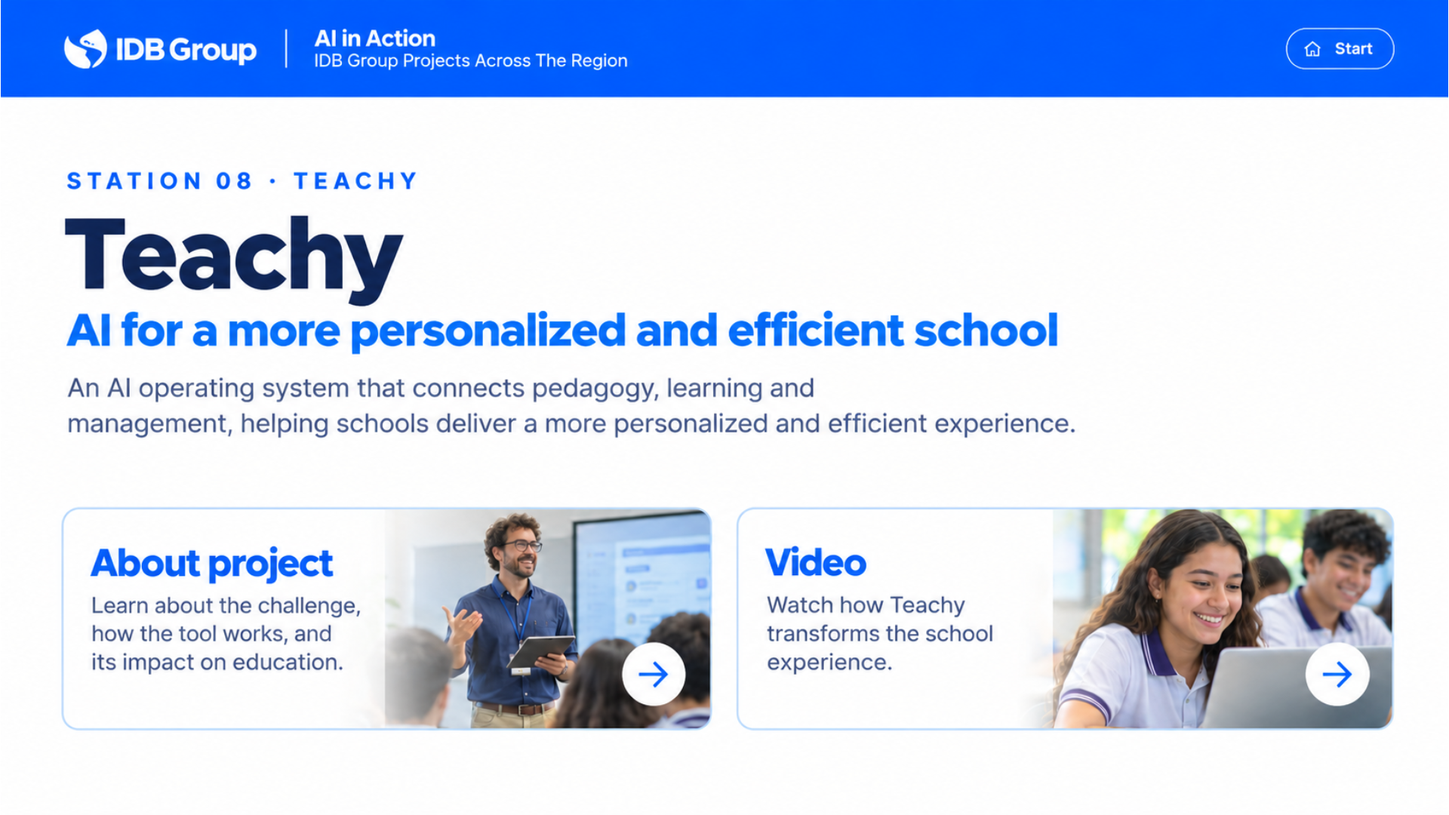
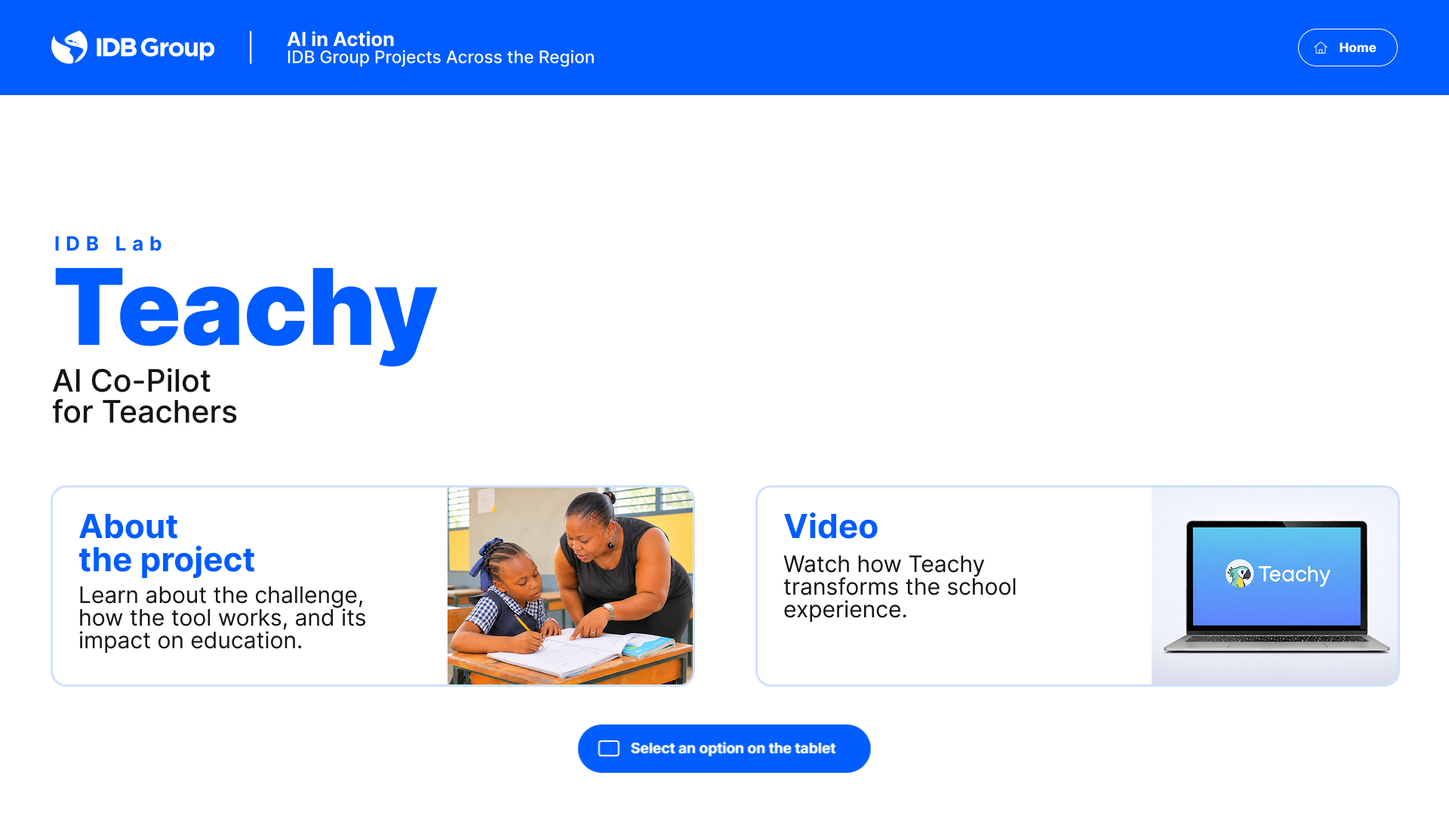
feat(08): Teachy con el nuevo menú principal y píldoras de guía en la TV
- Menú principal nuevo (MenuprincipalTEACHY.png, 1920 × 1080) en tableta y TV, con zonas
  táctiles About the project / Video / Home y píldora Back junto a Home.
- TV, menú: píldora «Select an option on the tablet» bajo las tarjetas.
- TV, infografía: píldora «When you are ready, tap “Video” on the tablet» al terminar la animación.

Changed region(s): [[0.0312, 0.5806, 0.9688, 0.9472], [0.0312, 0.2139, 0.75, 0.55], [0.0, 0.0306, 1.0, 0.1222]]

diff --git a/display.html b/display.html
@@ -1,1 +1,1 @@
-<!doctype html><html lang="en"><head><meta charset="UTF-8"><meta name="viewport" content="width=device-width, initial-scale=1"><title>AI in Action | Main Display</title><link rel="stylesheet" href="shared/styles.css?v=20261029-01"><link rel="stylesheet" href="projects/01-aquadata/aquadata.css?v=20261113-03"><link rel="stylesheet" href="projects/03-costa-rica-smart-borders/module.css?v=20261113-fig-9"><link rel="stylesheet" href="projects/04-parque-tecnologico-guatiguara/module.css?v=20261113-menu-2"><link rel="stylesheet" href="projects/05-profe-gabi/module.css?v=20261109-chat-font22"><link rel="stylesheet" href="projects/05-profe-gabi/artwork.css?v=20261113-home-label"><link rel="stylesheet" href="projects/06-reglac/module.css?v=20261113-menu-1"><link rel="stylesheet" href="projects/07-csd-maiia/module.css"><link rel="stylesheet" href="projects/08-teachy/module.css?v=20261113-portada-1"><link rel="stylesheet" href="projects/11-rsm-rise/module.css?v=20261113-rise-next-step"><link rel="stylesheet" href="projects/10-vpc-country-intelligence/module.css?v=20261106-country-intelligence"><link rel="stylesheet" href="projects/02-bogota-traffic-prediction/rebrand.css?v=20261113-menu-2"><link rel="stylesheet" href="projects/02-bogota-traffic-prediction/insights.css?v=20261113-infografia-2"><link rel="stylesheet" href="projects/02-bogota-traffic-prediction/control-center.css?v=20261113-menu-1"><link rel="stylesheet" href="projects/02-bogota-traffic-prediction/completion.css?v=20261112-figma-12"><link rel="stylesheet" href="shared/home-branding.css?v=20261110-home-art"></head><body><div id="app"></div><script src="shared/projects.js?v=20261029-01"></script><script src="shared/home-art.js?v=20261113-home-final"></script><script src="shared/brand-art.js"></script><script src="shared/brand.js?v=20261029-01"></script><script src="shared/sync.js?v=20261106-country-intelligence"></script><script src="shared/aquadata.js?v=20261112-01"></script><script src="projects/01-aquadata/visual.js?v=20261113-02"></script><script src="projects/04-parque-tecnologico-guatiguara/experience.js?v=20261113-menu-2"></script><script src="projects/05-profe-gabi/state.js?v=20261113-home-label"></script><script src="projects/05-profe-gabi/conversations.js?v=20261113-home-label"></script><script src="projects/05-profe-gabi/artwork.js?v=20261113-home-label"></script><script src="projects/05-profe-gabi/experience.js?v=20261113-home-label"></script><script src="projects/06-reglac/state.js"></script><script src="projects/06-reglac/experience.js?v=20261113-menu-1"></script><script src="projects/07-csd-maiia/state.js"></script><script src="projects/07-csd-maiia/experience.js"></script><script src="projects/07-csd-maiia/artwork.js"></script><script src="projects/08-teachy/experience.js?v=20261113-portada-1"></script><script src="projects/03-costa-rica-smart-borders/cover.js?v=20261113-fig-9"></script><script src="projects/03-costa-rica-smart-borders/tv.js?v=20261113-fig-9"></script><script src="projects/11-rsm-rise/state.js?v=20261113-rise-next-step"></script><script src="projects/11-rsm-rise/game.js?v=20261113-rise-next-step"></script><script src="projects/11-rsm-rise/experience.js?v=20261113-rise-next-step"></script><script src="projects/10-vpc-country-intelligence/state.js?v=20261106-country-intelligence"></script><script src="projects/10-vpc-country-intelligence/translations.js?v=20261106-country-intelligence"></script><script src="projects/10-vpc-country-intelligence/prototype.js?v=20261106-country-intelligence"></script><script src="projects/10-vpc-country-intelligence/experience.js?v=20261106-country-intelligence"></script><script src="shared/bogota-traffic.js?v=20261113-infografia-2"></script><script src="projects/02-bogota-traffic-prediction/visual.js?v=20261113-menu-2"></script><script src="projects/02-bogota-traffic-prediction/vendor/qrcode.js?v=1.4.4"></script><script src="projects/02-bogota-traffic-prediction/ranking.js?v=20261107-01"></script><script src="projects/02-bogota-traffic-prediction/completion.js?v=20261112-figma-12"></script><script src="projects/02-bogota-traffic-prediction/icons.js?v=20261112-figma-12"></script><script src="projects/02-bogota-traffic-prediction/pulse-vial.js?v=20261113-menu-1"></script><script src="projects/02-bogota-traffic-prediction/insights.js?v=20261113-infografia-2"></script><script src="projects/02-bogota-traffic-prediction/exploration.js?v=20261112-figma-12"></script><script src="projects/02-bogota-traffic-prediction/view-state.js?v=20261108-city-01"></script><script src="projects/02-bogota-traffic-prediction/native-map.js?v=20261110-stage-22"></script><script src="projects/02-bogota-traffic-prediction/control-center.js?v=20261113-menu-1"></script><script src="shared/display.js?v=20261113-gt-menu-1"></script></body></html>
+<!doctype html><html lang="en"><head><meta charset="UTF-8"><meta name="viewport" content="width=device-width, initial-scale=1"><title>AI in Action | Main Display</title><link rel="stylesheet" href="shared/styles.css?v=20261029-01"><link rel="stylesheet" href="projects/01-aquadata/aquadata.css?v=20261113-03"><link rel="stylesheet" href="projects/03-costa-rica-smart-borders/module.css?v=20261113-fig-9"><link rel="stylesheet" href="projects/04-parque-tecnologico-guatiguara/module.css?v=20261113-menu-2"><link rel="stylesheet" href="projects/05-profe-gabi/module.css?v=20261109-chat-font22"><link rel="stylesheet" href="projects/05-profe-gabi/artwork.css?v=20261113-home-label"><link rel="stylesheet" href="projects/06-reglac/module.css?v=20261113-menu-1"><link rel="stylesheet" href="projects/07-csd-maiia/module.css"><link rel="stylesheet" href="projects/08-teachy/module.css?v=20261113-menu-1"><link rel="stylesheet" href="projects/11-rsm-rise/module.css?v=20261113-rise-next-step"><link rel="stylesheet" href="projects/10-vpc-country-intelligence/module.css?v=20261106-country-intelligence"><link rel="stylesheet" href="projects/02-bogota-traffic-prediction/rebrand.css?v=20261113-menu-2"><link rel="stylesheet" href="projects/02-bogota-traffic-prediction/insights.css?v=20261113-infografia-2"><link rel="stylesheet" href="projects/02-bogota-traffic-prediction/control-center.css?v=20261113-menu-1"><link rel="stylesheet" href="projects/02-bogota-traffic-prediction/completion.css?v=20261112-figma-12"><link rel="stylesheet" href="shared/home-branding.css?v=20261110-home-art"></head><body><div id="app"></div><script src="shared/projects.js?v=20261029-01"></script><script src="shared/home-art.js?v=20261113-home-final"></script><script src="shared/brand-art.js"></script><script src="shared/brand.js?v=20261029-01"></script><script src="shared/sync.js?v=20261106-country-intelligence"></script><script src="shared/aquadata.js?v=20261112-01"></script><script src="projects/01-aquadata/visual.js?v=20261113-02"></script><script src="projects/04-parque-tecnologico-guatiguara/experience.js?v=20261113-menu-2"></script><script src="projects/05-profe-gabi/state.js?v=20261113-home-label"></script><script src="projects/05-profe-gabi/conversations.js?v=20261113-home-label"></script><script src="projects/05-profe-gabi/artwork.js?v=20261113-home-label"></script><script src="projects/05-profe-gabi/experience.js?v=20261113-home-label"></script><script src="projects/06-reglac/state.js"></script><script src="projects/06-reglac/experience.js?v=20261113-menu-1"></script><script src="projects/07-csd-maiia/state.js"></script><script src="projects/07-csd-maiia/experience.js"></script><script src="projects/07-csd-maiia/artwork.js"></script><script src="projects/08-teachy/experience.js?v=20261113-menu-1"></script><script src="projects/03-costa-rica-smart-borders/cover.js?v=20261113-fig-9"></script><script src="projects/03-costa-rica-smart-borders/tv.js?v=20261113-fig-9"></script><script src="projects/11-rsm-rise/state.js?v=20261113-rise-next-step"></script><script src="projects/11-rsm-rise/game.js?v=20261113-rise-next-step"></script><script src="projects/11-rsm-rise/experience.js?v=20261113-rise-next-step"></script><script src="projects/10-vpc-country-intelligence/state.js?v=20261106-country-intelligence"></script><script src="projects/10-vpc-country-intelligence/translations.js?v=20261106-country-intelligence"></script><script src="projects/10-vpc-country-intelligence/prototype.js?v=20261106-country-intelligence"></script><script src="projects/10-vpc-country-intelligence/experience.js?v=20261106-country-intelligence"></script><script src="shared/bogota-traffic.js?v=20261113-infografia-2"></script><script src="projects/02-bogota-traffic-prediction/visual.js?v=20261113-menu-2"></script><script src="projects/02-bogota-traffic-prediction/vendor/qrcode.js?v=1.4.4"></script><script src="projects/02-bogota-traffic-prediction/ranking.js?v=20261107-01"></script><script src="projects/02-bogota-traffic-prediction/completion.js?v=20261112-figma-12"></script><script src="projects/02-bogota-traffic-prediction/icons.js?v=20261112-figma-12"></script><script src="projects/02-bogota-traffic-prediction/pulse-vial.js?v=20261113-menu-1"></script><script src="projects/02-bogota-traffic-prediction/insights.js?v=20261113-infografia-2"></script><script src="projects/02-bogota-traffic-prediction/exploration.js?v=20261112-figma-12"></script><script src="projects/02-bogota-traffic-prediction/view-state.js?v=20261108-city-01"></script><script src="projects/02-bogota-traffic-prediction/native-map.js?v=20261110-stage-22"></script><script src="projects/02-bogota-traffic-prediction/control-center.js?v=20261113-menu-1"></script><script src="shared/display.js?v=20261113-gt-menu-1"></script></body></html>

diff --git a/projects/08-teachy/module.css b/projects/08-teachy/module.css
@@ -1,56 +1,38 @@
-/* The client-supplied main-menu PNG (1672 × 941) defines the complete tablet visual. */
-.teachy-tablet{
- width:100%;height:100dvh;display:grid;place-items:center;
- overflow:hidden;background:#fff;
-}
-.teachy-artboard{
- position:relative;width:min(100dvw,177.6833156dvh);aspect-ratio:1672 / 941;
- overflow:hidden;container-type:inline-size;
-}
-.teachy-tablet-image{
- display:block;width:100%;height:100%;object-fit:contain;
- user-select:none;pointer-events:none;
-}
-.teachy-controls{position:absolute;inset:0}
-.teachy-hit{
- position:absolute;border:0;padding:0;background:transparent;cursor:pointer;
- border-radius:1.5cqw;touch-action:manipulation;-webkit-tap-highlight-color:transparent;
-}
-.teachy-hit:focus-visible,.teachy-back:focus-visible{
- outline:4px solid #003fb4;outline-offset:2px;
-}
-/* Positions in % of the 1672 × 941 artwork. */
-.teachy-hit--fullscreen{left:4.19%;top:20.19%;width:24.88%;height:4.04%;border-radius:99px}
-.teachy-hit--home{left:88.4%;top:2.34%;width:8.25%;height:7.23%;border-radius:99px}
-.teachy-hit--info{left:4.19%;top:62.17%;width:44.98%;height:27.52%}
-.teachy-hit--video{left:50.84%;top:62.17%;width:45.45%;height:27.52%}
-.teachy-hit--home:focus-visible{outline-color:#fff}
+/* ===== Main menu PNG supplied on 13 Nov 2026 (tablet + TV, experience.js → frame) =====
+   1 unit (--u) = 1 px of the 1920 × 1080 artwork. The blue bar (126 px) stays at the top and the
+   body (954 px) is centred in the space left; at 16:9 the screen is the PNG pixel for pixel. */
+.tcm-menu{--u:min(calc(100vw / 1920),calc(100dvh / 1080));position:fixed;inset:0;display:flex;flex-direction:column;overflow:hidden;background:#fff;font-family:Inter,'Segoe UI',Arial,sans-serif}
+.tcm-bar{flex:none;height:calc(126 * var(--u));display:flex;justify-content:center;background:#005cff}
+.tcm-body{flex:1;min-height:0;display:grid;place-items:center}
+.tcm-band{position:relative;flex:none;width:calc(1920 * var(--u));background-image:var(--art);background-repeat:no-repeat;background-size:calc(1920 * var(--u)) calc(1080 * var(--u))}
+.tcm-band--bar{height:calc(126 * var(--u));background-position:0 0}
+.tcm-band--body{height:calc(954 * var(--u));background-position:0 calc(-126 * var(--u))}
+.tcm-hit{position:absolute;border:0;padding:0;background:transparent;cursor:pointer;touch-action:manipulation;-webkit-tap-highlight-color:transparent}
+.tcm-hit--home{left:calc(1720 * var(--u));top:calc(38 * var(--u));width:calc(132 * var(--u));height:calc(50 * var(--u));border-radius:99px}
+.tcm-hit--home::before,.tcm-back::before{content:'';position:absolute;inset:calc(-22 * var(--u)) calc(-10 * var(--u))}
+.tcm-hit--information,.tcm-hit--video{top:calc(517 * var(--u));width:calc(854 * var(--u));height:calc(267 * var(--u));border-radius:calc(22 * var(--u))}
+.tcm-hit--information{left:calc(67 * var(--u))}
+.tcm-hit--video{left:calc(1001 * var(--u))}
+.tcm-hit[aria-pressed="true"]{box-shadow:inset 0 0 0 calc(4 * var(--u)) #005cff}
+.tcm-hit:active{background:#005cff14}
+.tcm-hit:focus-visible,.tcm-back:focus-visible{outline:calc(4 * var(--u)) solid #f8b944;outline-offset:calc(3 * var(--u))}
+/* Back: same outlined pill as Home in the artwork, shown only while the TV shows the infographic or the video. */
+.tcm-back{position:absolute;right:calc(220 * var(--u));top:calc(38 * var(--u));box-sizing:border-box;display:inline-flex;align-items:center;gap:calc(14 * var(--u));height:calc(50 * var(--u));padding:0 calc(28 * var(--u)) 0 calc(22 * var(--u));border:1px solid #fff;border-radius:99px;background:transparent;color:#fff;font:700 calc(16.75 * var(--u))/1 Inter,'Segoe UI',Arial,sans-serif;cursor:pointer;touch-action:manipulation;-webkit-tap-highlight-color:transparent;animation:tcm-back-in .35s ease both}
+.tcm-back[hidden]{display:none}
+.tcm-back svg{flex:none;width:calc(18 * var(--u));height:calc(16 * var(--u))}
+.tcm-back:active{background:#ffffff26}
+@keyframes tcm-back-in{from{opacity:0;transform:translateX(calc(14 * var(--u)))}to{opacity:1;transform:none}}
+/* TV guidance pill of the main menu (same as AquaData, PredictToDo, Guatiguará and RegLAC): 390 × 64 blue pill centred under the cards. */
+.tcm-cta{position:absolute;left:50%;top:calc(834 * var(--u));transform:translateX(-50%);box-sizing:border-box;display:flex;align-items:center;gap:calc(15 * var(--u));height:calc(64 * var(--u));padding:0 calc(47 * var(--u)) 0 calc(27 * var(--u));border-radius:999px;background:#005cff;color:#fff;white-space:nowrap;animation:tcm-cta-in .5s ease .3s both}
+.tcm-cta svg{flex:none;width:calc(28 * var(--u));height:calc(21.3 * var(--u))}
+.tcm-cta strong{font:700 calc(19.1 * var(--u))/1 Inter,'Segoe UI',Arial,sans-serif;letter-spacing:0}
+@keyframes tcm-cta-in{from{opacity:0;transform:translate(-50%,calc(12 * var(--u)))}to{opacity:1;transform:translate(-50%,0)}}
 
-/* Back: same pill as "Start" in the artwork, shown only while the TV shows the infographic or the video. */
-.teachy-back{
- position:absolute;left:80.44%;top:3.4%;width:7.48%;height:5.1%;
- display:flex;align-items:center;justify-content:center;gap:.55cqw;
- padding:0;border:max(1px,.09cqw) solid #fff;border-radius:99px;
- background:#005cfe;color:#fff;cursor:pointer;touch-action:manipulation;-webkit-tap-highlight-color:transparent;
- font:700 1.15cqw/1 Inter,'Segoe UI',Arial,sans-serif;
- animation:teachy-back-in .35s ease both;
-}
-.teachy-back[hidden]{display:none}
-.teachy-back::before{content:'';position:absolute;inset:-1.1cqw -.6cqw}
-.teachy-back svg{width:1.25cqw;height:1.25cqw;flex:none}
-.teachy-back:active{background:#0a4fd6}
-.teachy-back:focus-visible{outline-color:#fff}
-@keyframes teachy-back-in{from{opacity:0;transform:translateX(.8cqw)}to{opacity:1;transform:none}}
-
-/* TV: the main menu and the video fill the screen, also at the exhibition TV's 1920 × 1080. */
+/* TV: the infographic and the video fill the screen, also at the exhibition TV's 1920 × 1080. */
 .teachy-display{
  position:fixed;inset:0;width:100dvw;height:100dvh;
  display:grid;grid-template-columns:minmax(0,1fr);grid-template-rows:minmax(0,1fr);
  padding:0;margin:0;overflow:hidden;background:#fff;
-}
-.teachy-display-image{
- display:block;width:100%;height:100%;min-width:0;min-height:0;
- max-width:none;max-height:none;object-fit:contain;
 }
 .teachy-display--video{background:#fff}
 .teachy-display-video{
@@ -98,4 +80,13 @@
 .tch-sheet.is-animated .tch-value>.tch-crop{animation:tch-rise .9s cubic-bezier(.2,.8,.2,1) calc(4.2s + var(--i) * .45s) both}
 .tch-sheet.is-animated .tch-label>.tch-crop{animation:tch-focus .8s cubic-bezier(.2,.8,.2,1) calc(4.45s + var(--i) * .45s) both}
 .tch-sheet.is-animated .tch-stage{animation:tch-drift 14s ease-out 6.4s both}
-@media (prefers-reduced-motion:reduce){.tch-sheet *,.tch-sheet .tch-stage{animation:none!important}}
+/* TV guidance pill of the infographic: flat blue pill centred in the white area, shown when the sheet has
+   finished building; the arrow slides down and fades, then starts again from the top: it points at the tablet. */
+.tch-cta{position:absolute;z-index:2;left:calc(50% + 382 * var(--u));top:calc(50% + 416 * var(--u));transform:translateX(-50%);box-sizing:border-box;display:flex;align-items:center;gap:calc(15 * var(--u));height:calc(62 * var(--u));padding:0 calc(30 * var(--u)) 0 calc(27 * var(--u));border-radius:999px;background:#005cff;color:#fff;white-space:nowrap;font-family:Inter,'Segoe UI',Arial,sans-serif;animation:tch-cta-in .45s ease 6.2s both}
+.tch-cta>svg{flex:none;width:calc(29 * var(--u));height:calc(22 * var(--u))}
+.tch-cta strong{font:700 calc(19 * var(--u))/1.2 Inter,'Segoe UI',Arial,sans-serif}
+.tch-cta i{display:grid;place-items:center;flex:none;width:calc(24 * var(--u));height:calc(24 * var(--u));margin-left:calc(4 * var(--u));animation:tch-cta-drop 1.6s cubic-bezier(.45,0,.55,1) infinite}
+.tch-cta i svg{width:100%;height:100%}
+@keyframes tch-cta-in{from{opacity:0;transform:translate(-50%,calc(16 * var(--u)))}to{opacity:1;transform:translate(-50%,0)}}
+@keyframes tch-cta-drop{0%{opacity:0;transform:translateY(-45%)}25%{opacity:1}60%{opacity:1;transform:translateY(8%)}100%{opacity:0;transform:translateY(45%)}}
+@media (prefers-reduced-motion:reduce){.tch-sheet *,.tch-sheet .tch-stage,.tcm-cta,.tcm-back{animation:none!important}}

diff --git a/projects/08-teachy/experience.js b/projects/08-teachy/experience.js
@@ -2,19 +2,33 @@
    Both clients use only files in 08-teachy/Public and 08-teachy/Video.
    Keep the capital P and V: hosting paths are case-sensitive. */
 (function(){
- const version='?v=20261113-portada-1';
+ const version='?v=20261113-menu-1';
  const base=new URL('./Public/',document.currentScript.src);
  const videoBase=new URL('./Video/',document.currentScript.src);
  const asset=name=>new URL(name,base).href+version;
  const art={
-  /* Main menu supplied in November 2026 (1672 × 941, English). */
-  tablet:asset('teachy-portada-en.png'),
+  /* Main menu supplied on 13 Nov 2026 (1920 × 1080, English): tablet and TV. */
+  menu:asset('teachy-menu-en.png'),
   /* "About project" infographic (1920 × 1080) and the same sheet with its content erased,
      used as the empty blue panel, card frames and impact bar while the sheet builds. */
   info:asset('teachy-infografia-en.png'),
   infoBase:asset('teachy-infografia-base.png'),
   video:new URL('Teachy_Musica_v2_web.mp4',videoBase).href+version
  };
+ const words={
+  screen:'Teachy, IDB Lab: AI Co-Pilot for Teachers. About the project and Video.',
+  tvCta:'Select an option on the tablet',
+  infoCta:'When you are ready, tap “Video” on the tablet'
+ };
+ /* The menu artwork is drawn in two bands of the same 1920 × 1080 image: the blue bar (top 126 px)
+    stays at the top of the screen and the body (the remaining 954 px) is centred in the space
+    left, so 4:3 and 16:10 tablets keep it balanced. At 16:9 it is the PNG pixel for pixel. */
+ function frame(cls,bar,body){
+  return `<main class="tcm-menu ${cls}" lang="en" style="--art:url('${art.menu}')" aria-label="${words.screen}"><div class="tcm-bar"><div class="tcm-band tcm-band--bar">${bar}</div></div><div class="tcm-body"><div class="tcm-band tcm-band--body">${body}</div></div></main>`;
+ }
+ const TABLET_ICON='<svg viewBox="0 0 21 16" fill="none" stroke="currentColor" stroke-width="1.5" stroke-linecap="round" stroke-linejoin="round" aria-hidden="true"><rect x=".75" y=".75" width="19.5" height="14.5" rx="2.2"/></svg>';
+ const DOWN_ICON='<svg viewBox="0 0 24 24" fill="none" stroke="currentColor" stroke-width="2.2" stroke-linecap="round" stroke-linejoin="round" aria-hidden="true"><path d="M12 4v15M5.5 13l6.5 6.5 6.5-6.5"/></svg>';
+ const BACK_ICON='<svg viewBox="0 0 18 16" fill="none" stroke="currentColor" stroke-width="1.2" stroke-linecap="round" stroke-linejoin="round" aria-hidden="true"><path d="M16.6 8H1.4M7.4 1.8 1.4 8l6 6.2"/></svg>';
 
  /* The infographic animated element by element, like the IDB reference
     "Iniciativa 2.2_animada_PRO" (same timing as the VUCE 3.0 sheet): the blue panel sweeps in,
@@ -67,9 +81,17 @@
     ${piece('tch-bar',s.bar,'base',null,facts)}
     <img class="tch-final" src="${art.info}" width="1920" height="1080" alt="Teachy infographic: the challenge, the solution and the impact to date">
    </div>
+   <div class="tch-cta" role="status">${TABLET_ICON}<strong>${words.infoCta}</strong><i aria-hidden="true">${DOWN_ICON}</i></div>
   </section>`;
  }
 
+ /* Tablet: the menu artwork with touch zones; the Back pill sits next to Home (module.js shows it). */
+ function tabletMenu(t){
+  const hit=(action,label,extra='')=>`<button type="button" class="tcm-hit tcm-hit--${action}" data-action="${action}" aria-label="${label}"${extra}></button>`;
+  return frame('tcm-menu--tablet',
+   `<button type="button" class="tcm-back" data-action="back" aria-label="${t.back}" hidden>${BACK_ICON}<span>Back</span></button>`+hit('home',t.home),
+   hit('information',t.info,' aria-pressed="false"')+hit('video',t.video,' aria-pressed="false"'));
+ }
  function renderVideo(mount){
   // Keep the running video when the same state arrives again.
   if(mount.querySelector('.teachy-display-video'))return;
@@ -87,8 +109,9 @@
   document.documentElement.lang='en';
   if(data.mode==='video')return renderVideo(mount);
   if(data.mode==='info')return renderInfo(mount);
-  if(mount.querySelector('.teachy-display--landing'))return;
-  mount.innerHTML=`<main class="teachy-display teachy-display--landing" aria-label="Teachy main screen"><img class="teachy-display-image" src="${art.tablet}" alt="Teachy: AI for a more personalized and efficient school" width="1672" height="941"></main>`;
+  /* TV main menu: the same artwork as the tablet plus the guidance pill under the cards. */
+  if(mount.querySelector('.tcm-menu--landing'))return;
+  mount.innerHTML=frame('tcm-menu--tv tcm-menu--landing','',`<div class="tcm-cta" role="status">${TABLET_ICON}<strong>${words.tvCta}</strong></div>`);
  }
- window.TEACHY={art,renderDisplay};
+ window.TEACHY={art,words,renderDisplay,tabletMenu};
 })();

diff --git a/projects/08-teachy/module.js b/projects/08-teachy/module.js
@@ -1,19 +1,16 @@
-/* Station 08: the supplied main-menu PNG (November 2026) with functional touch controls.
-   "About project" shows the animated infographic on the TV and "Video" plays the Teachy video;
+/* Station 08: the supplied main-menu PNG (13 Nov 2026) with functional touch controls.
+   "About the project" shows the animated infographic on the TV and "Video" plays the Teachy video;
    the tablet keeps its artwork and only adds a Back pill while the TV shows one of them. */
 window.ProjectModule={
  id:'08',
  async mountController({sync,mount,home}){
   let state={mode:'landing'};
   const t={
-   screen:'Teachy: AI for a more personalized and efficient school',
-   info:'About project: show the infographic on the TV',
+   info:'About the project: show the infographic on the TV',
    video:'Video: play the Teachy video on the TV',
-   home:'Start: back to all projects',
-   back:'Back: show the Teachy main screen on the TV',
-   fullscreen:'Enter or exit fullscreen'
+   home:'Home: back to all projects',
+   back:'Back: show the main menu on the TV'
   };
-  const ARROW='<svg viewBox="0 0 24 24" fill="none" stroke="currentColor" stroke-width="2.4" stroke-linecap="round" stroke-linejoin="round" aria-hidden="true"><path d="M19 12H5"/><path d="M11 6l-6 6 6 6"/></svg>';
   function publish(){
    return sync.send({view:'project',projectId:'08',section:state.mode==='info'||state.mode==='video'?state.mode:null,language:'en',mode:state.mode,screenIndex:null,game:null});
   }
@@ -23,47 +20,30 @@ window.ProjectModule={
   }
   function render(){
    document.documentElement.lang='en';
-   mount.innerHTML=`<main class="teachy-tablet" aria-label="Teachy">
-    <div class="teachy-artboard">
-     <img class="teachy-tablet-image" src="${TEACHY.art.tablet}" width="1672" height="941" alt="${t.screen}" draggable="false">
-     <nav class="teachy-controls" aria-label="Teachy">
-      <button class="teachy-hit teachy-hit--fullscreen" type="button" data-action="fullscreen" aria-label="${t.fullscreen}" title="${t.fullscreen}"></button>
-      <button class="teachy-back" type="button" data-action="back" aria-label="${t.back}" hidden>${ARROW}<span>Back</span></button>
-      <button class="teachy-hit teachy-hit--home" type="button" data-action="home" aria-label="${t.home}"></button>
-      <button class="teachy-hit teachy-hit--info" type="button" data-action="information" aria-label="${t.info}" aria-pressed="false"></button>
-      <button class="teachy-hit teachy-hit--video" type="button" data-action="video" aria-label="${t.video}" aria-pressed="false"></button>
-     </nav>
-    </div>
-   </main>`;
+   mount.innerHTML=TEACHY.tabletMenu(t);
    update();
   }
   /* Only the Back pill and the pressed state change; the artwork is never re-rendered. */
   function update(){
-   const back=mount.querySelector('.teachy-back');
+   const back=mount.querySelector('.tcm-back');
    if(back)back.hidden=state.mode==='landing';
-   mount.querySelector('.teachy-hit--info')?.setAttribute('aria-pressed',String(state.mode==='info'));
-   mount.querySelector('.teachy-hit--video')?.setAttribute('aria-pressed',String(state.mode==='video'));
+   mount.querySelector('.tcm-hit--information')?.setAttribute('aria-pressed',String(state.mode==='info'));
+   mount.querySelector('.tcm-hit--video')?.setAttribute('aria-pressed',String(state.mode==='video'));
   }
   function show(mode){
    state.mode=mode;update();void publish();
   }
-  mount.addEventListener('click',async event=>{
+  mount.addEventListener('click',event=>{
    const button=event.target.closest('button');if(!button||button.disabled)return;
    const action=button.dataset.action;
    if(action==='information')return show('info');
    if(action==='video')return show('video');
    if(action==='back'){
     show('landing');
-    mount.querySelector('.teachy-hit--info')?.focus({preventScroll:true});
+    mount.querySelector('.tcm-hit--information')?.focus({preventScroll:true});
     return;
    }
    if(action==='home')return void goHome();
-   if(action==='fullscreen'){
-    try{
-     if(document.fullscreenElement)await document.exitFullscreen();
-     else await document.documentElement.requestFullscreen();
-    }catch{}
-   }
   });
   try{
    const remote=await sync.read();

diff --git a/tests/smoke.test.js b/tests/smoke.test.js
@@ -19,7 +19,7 @@ test('Teachy ships its supplied tablet, infographic and video resources',()=>{
  const video=path.join(folder,'Video','Teachy_Musica_v2_web.mp4');
  assert.ok(fs.existsSync(video));
  assert.ok(fs.statSync(video).size<100*1024*1024,'GitHub rejects files over 100 MB');
- for(const [file,width,height] of [['teachy-portada-en.png',1672,941],['teachy-infografia-en.png',1920,1080],['teachy-infografia-base.png',1920,1080]]){
+ for(const [file,width,height] of [['teachy-menu-en.png',1920,1080],['teachy-infografia-en.png',1920,1080],['teachy-infografia-base.png',1920,1080]]){
   const png=fs.readFileSync(path.join(folder,'Public',file));
   assert.equal(png.readUInt32BE(16),width);assert.equal(png.readUInt32BE(20),height);
  }
@@ -27,12 +27,13 @@ test('Teachy ships its supplied tablet, infographic and video resources',()=>{
  assert.match(experience,/Teachy_Musica_v2_web\.mp4/);
  assert.match(experience,/data\.mode==='video'/);
  assert.match(experience,/data\.mode==='info'/);
+ // Touch zones and the Back pill are drawn by experience.js (tabletMenu); module.js handles the actions.
+ for(const action of ['video','information','home'])assert.ok(experience.includes("hit('"+action+"'"),action);
+ assert.match(experience,/data-action="back"/);
+ assert.match(experience,/Select an option on the tablet/);
+ assert.match(experience,/When you are ready, tap “Video” on the tablet/);
  const controller=fs.readFileSync(path.join(folder,'module.js'),'utf8');
- assert.match(controller,/data-action="video"/);
- assert.match(controller,/data-action="information"/);
- assert.match(controller,/data-action="back"/);
- assert.match(controller,/data-action="home"/);
- assert.doesNotMatch(controller,/teachy-hit--video" type="button" disabled/);
+ for(const action of ['video','information','back','home'])assert.ok(controller.includes("action==='"+action+"'"),action);
 });
 
 test('the tablet home uses ten visual positions',()=>{

diff --git a/projects/08-teachy/index.html b/projects/08-teachy/index.html
@@ -6,15 +6,15 @@
   <meta name="theme-color" content="#f7fbff">
   <title>Teachy | AI in Action</title>
   <link rel="stylesheet" href="../../shared/styles.css">
-  <link rel="stylesheet" href="./module.css?v=20261113-portada-1">
+  <link rel="stylesheet" href="./module.css?v=20261113-menu-1">
 </head>
 <body class="project-page">
   <main id="app" aria-live="polite"></main>
   <script src="../../shared/projects.js"></script>
   <script src="../../shared/brand-art.js"></script><script src="../../shared/brand.js"></script>
   <script src="../../shared/sync.js"></script>
-  <script src="./experience.js?v=20261113-portada-1"></script>
-  <script src="./module.js?v=20261113-portada-1"></script>
+  <script src="./experience.js?v=20261113-menu-1"></script>
+  <script src="./module.js?v=20261113-menu-1"></script>
   <script src="../../shared/project-page.js"></script>
 </body>
 </html>

diff --git a/projects/08-teachy/README.md b/projects/08-teachy/README.md
@@ -8,7 +8,8 @@
 
 ## Recursos (noviembre 2026)
 
-- `Public/teachy-portada-en.png` (1672 × 941): menú principal de la tableta y portada del TV.
+- `Public/teachy-menu-en.png` (1920 × 1080, entregado el 13 nov como `MenuprincipalTEACHY.png`):
+  menú principal de la tableta y del TV.
 - `Public/teachy-infografia-en.png` (1920 × 1080): infografía «About project».
 - `Public/teachy-infografia-base.png`: la misma infografía con el contenido borrado (panel azul,
   marcos de las tarjetas y barra de impacto vacíos). Se genera a partir de la anterior; si cambia
@@ -19,15 +20,18 @@
 
 ## Funcionamiento
 
-- `module.js`: zonas táctiles sobre el PNG de la tableta. «About project» → infografía en el TV;
-  «Video» → video en el TV; «Start» → menú general; la etiqueta «Station 08 · Teachy» activa la
-  pantalla completa. Mientras el TV muestra la infografía o el video aparece la píldora «Back»
-  junto a «Start», que devuelve el TV a la portada. La tableta no cambia de arte.
+- `module.js`: acciones de la tableta. Las zonas táctiles sobre el PNG las dibuja `experience.js`
+  (`tabletMenu`): «About the project» → infografía en el TV; «Video» → video en el TV; «Home» →
+  menú general. Mientras el TV muestra la infografía o el video aparece la píldora «Back» junto a
+  «Home», que devuelve el TV al menú. La tableta no cambia de arte.
+- TV, menú: el mismo arte con la píldora «Select an option on the tablet» bajo las tarjetas.
+- TV, infografía: al terminar la animación aparece la píldora «When you are ready, tap “Video” on
+  the tablet» con la flecha animada (mismo patrón que Guatiguará 04 y RegLAC 06).
 - `experience.js`: rutas de los recursos y render del TV. La infografía se arma pieza por pieza con
   recortes del PNG (panel azul, logo, título, reto, solución, cifras de impacto) con la misma
   coreografía que la referencia animada del BID «Iniciativa 2.2_animada_PRO» (igual que VUCE 3.0).
   Dura unos 6 s; al final se superpone el PNG completo, así que el cuadro final es idéntico al
   original. No se reinicia si el TV recibe de nuevo el mismo estado.
 - El video se reproduce a pantalla completa y en bucle; si el navegador del TV bloquea el audio sin
-  gesto del usuario, sigue silenciado. «Back» lo detiene y vuelve a la portada.
+  gesto del usuario, sigue silenciado. «Back» lo detiene y vuelve al menú.
 - Solo inglés: los recursos nuevos no tienen versión en español.
